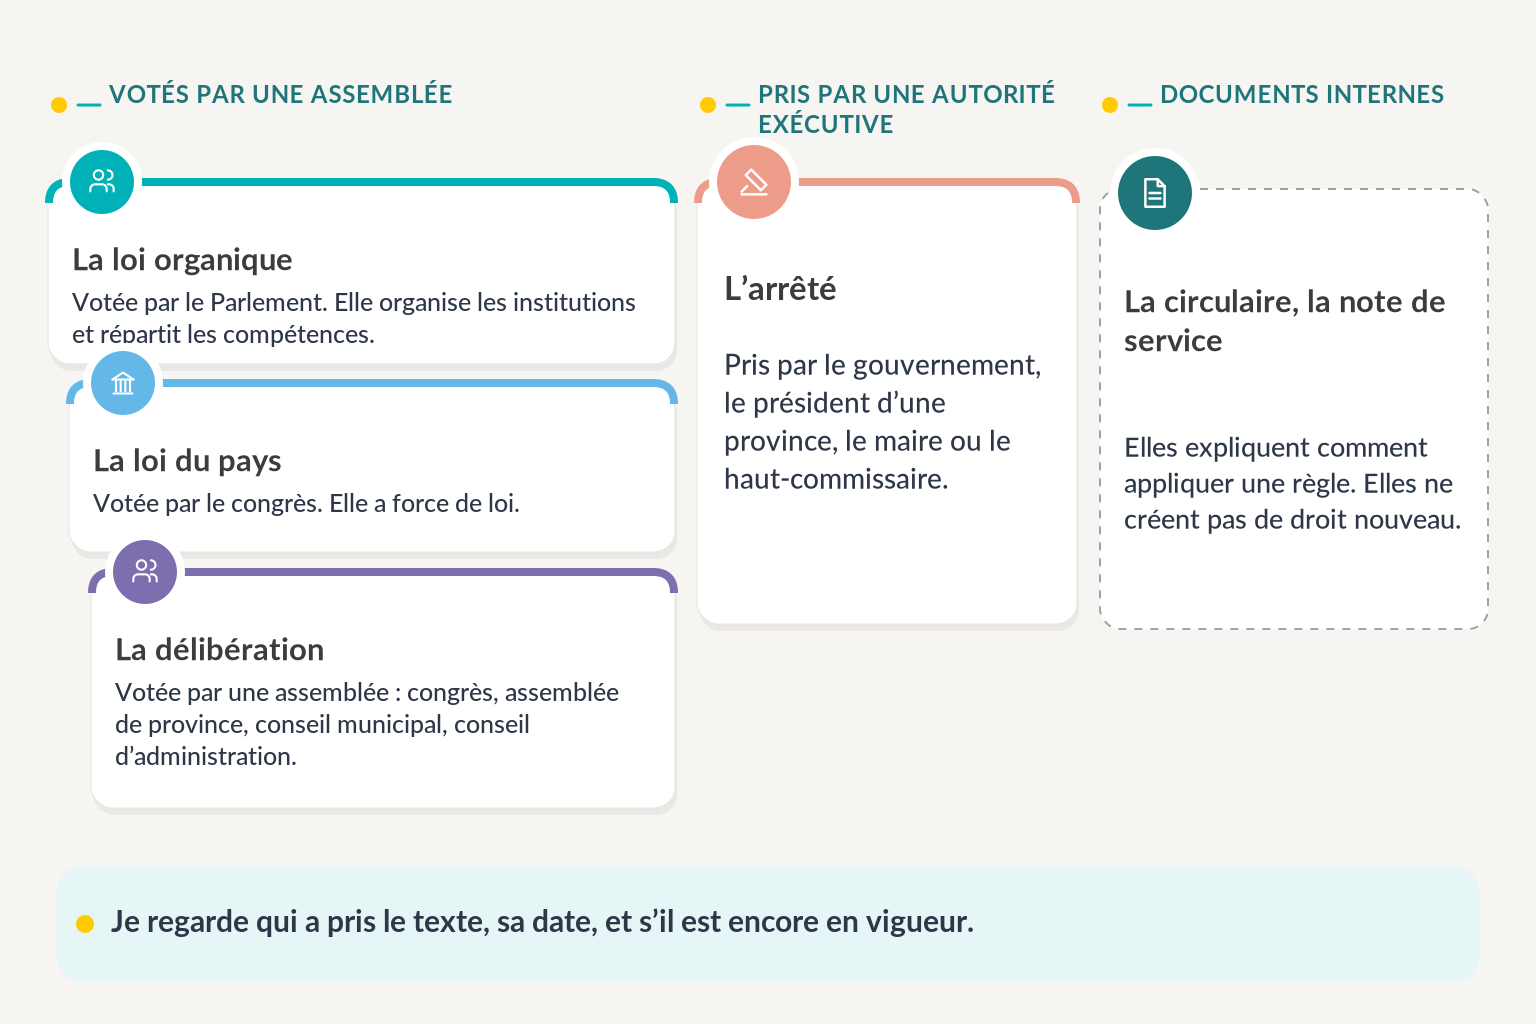
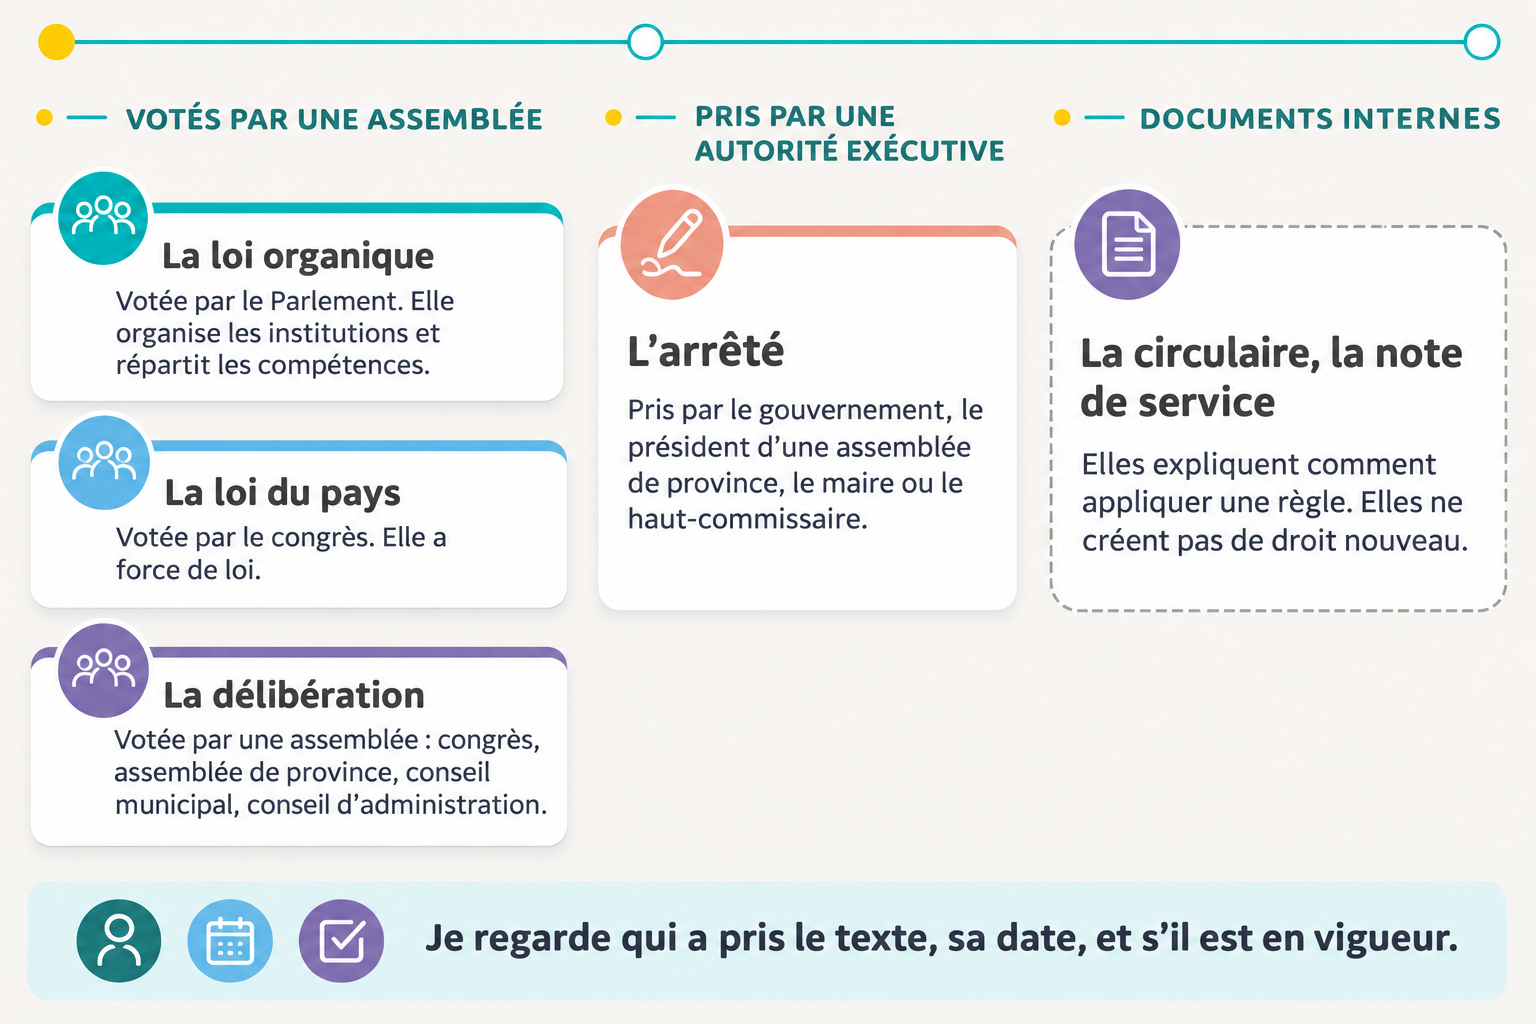
T10 : infographies INF-M1-01 à 04 dans M1 en pages, ILL-N09, « Aller plus loin » en image
Moteur : champ visuels d'un apport (image pleine largeur, zoom, repli sur le
bloc en code si l'image manque) et plus_loin.image. build.py : inventaire INF-*
et contrôle des infographies. M1 en pages v0.7 ; tests/rejouer.py : 24/24.

Claude-Session: https://claude.ai/code/session_0132ocV5q6wtdg1QakUSCwo7

diff --git a/data/m1-pages.js b/data/m1-pages.js
@@ -1,4 +1,4 @@
-/* GÉNÉRÉ par build/build.py depuis « Storyboard — M1 en pages v0.6.md » — ne pas modifier à la main. */
+/* GÉNÉRÉ par build/build.py depuis « v07.md » — ne pas modifier à la main. */
 window.DINA_DATA = {
  "module": {
   "id": "M1-PAGES",
@@ -382,7 +382,10 @@ window.DINA_DATA = {
      "guichet": "Le guichet n'est pas toujours la collectivité compétente. L'état civil relève de la Nouvelle-Calédonie, mais l'usager le demande à la mairie.",
      "plus_loin": {
       "titre": "Aller plus loin : quatre repères pour comprendre",
-      "texte": "**D'où vient cette répartition ?** Quatre dates suffisent pour s'y retrouver.\n\n- **1983 — Table ronde de Nainville-les-Roches.** Réunis par l'État près de Paris du 8 au 12 juillet, indépendantistes et non-indépendantistes discutent de l'avenir du territoire. La déclaration finale reconnaît le droit du peuple kanak, premier occupant, à l'indépendance, à exercer dans une autodétermination ouverte aux autres communautés dont il reconnaît la légitimité. Le RPCR ne la signe pas.\n- **1988-1989 — Accords de Matignon-Oudinot.** Création des trois provinces.\n- **1998-1999 — Accord de Nouméa.** Il organise le transfert progressif de compétences de l'État vers la Nouvelle-Calédonie. La loi organique du 19 mars 1999 fixe les listes : article 21 pour l'État, article 22 pour la Nouvelle-Calédonie, article 20 pour les provinces.\n- **Depuis 2000 — Les transferts de compétences.** Par exemple l'organisation de l'enseignement du second degré (2012), le droit civil et l'état civil (2013).\n\n**Le mot « pays ».** On parle souvent du « pays » pour la Nouvelle-Calédonie : ses lois s'appellent des lois du pays. Face à un usager, dites plutôt « la Nouvelle-Calédonie » ou « le gouvernement de la Nouvelle-Calédonie »."
+      "avant": "**D'où vient cette répartition ?** Quatre dates suffisent pour s'y retrouver.",
+      "image": "INF-M1-03",
+      "liste": "- **1983 — Table ronde de Nainville-les-Roches.** Réunis par l'État près de Paris du 8 au 12 juillet, indépendantistes et non-indépendantistes discutent de l'avenir du territoire. La déclaration finale reconnaît le droit du peuple kanak, premier occupant, à l'indépendance, à exercer dans une autodétermination ouverte aux autres communautés dont il reconnaît la légitimité. Le RPCR ne la signe pas.\n- **1988-1989 — Accords de Matignon-Oudinot.** Création des trois provinces.\n- **1998-1999 — Accord de Nouméa.** Il organise le transfert progressif de compétences de l'État vers la Nouvelle-Calédonie. La loi organique du 19 mars 1999 fixe les listes : article 21 pour l'État, article 22 pour la Nouvelle-Calédonie, article 20 pour les provinces.\n- **Depuis 2000 — Les transferts de compétences.** Par exemple l'organisation de l'enseignement du second degré (2012), le droit civil et l'état civil (2013).",
+      "texte": "**Le mot « pays ».** On parle souvent du « pays » pour la Nouvelle-Calédonie : ses lois s'appellent des lois du pays. Face à un usager, dites plutôt « la Nouvelle-Calédonie » ou « le gouvernement de la Nouvelle-Calédonie »."
      },
      "regle_clair": "Par défaut, c'est la province qui s'occupe d'un sujet. L'État, la Nouvelle-Calédonie et les communes ne s'en occupent que si un texte le leur confie. On dit que la province est compétente « de droit commun ».",
      "valider": "Repères historiques (D68, D89, D147) : rétablis le 12-11 (ils n'avaient pas été repris dans M1 en pages) ; Nainville-les-Roches ajouté à la demande de Marie-Ange Morvan, DRH de la province Sud. Sources : gouv.nc, communiqué des 40 ans de Nainville-les-Roches (12-07-2023) ; LARJE, Université de la Nouvelle-Calédonie. Formulation à valider par l'expert institutionnel. 14-11 : citation du gouvernement retirée (source non déposée) ; dates, contenu de la déclaration et position du RPCR à contrôler sur les sources."
@@ -812,6 +815,12 @@ window.DINA_DATA = {
       ],
       "ref": "Loi organique n° 99-209 du 19 mars 1999 ; code des communes de la Nouvelle-Calédonie"
      },
+     "visuels": [
+      {
+       "remplace": "grille",
+       "image": "INF-M1-01"
+      }
+     ],
      "methode_titre": "Avant de demander, trois questions",
      "methode": [
       "Est-ce que ça engage l'ÉLAN (signature, promesse, dépense) ? Si oui : mon responsable.",
@@ -1304,6 +1313,16 @@ window.DINA_DATA = {
       ],
       "ref": "Loi organique n° 99-209 du 19 mars 1999"
      },
+     "visuels": [
+      {
+       "remplace": "grille",
+       "image": "INF-M1-02"
+      },
+      {
+       "remplace": "methode",
+       "image": "INF-M1-04"
+      }
+     ],
      "methode_titre": "Avant d'utiliser une information, trois questions",
      "methode": [
       "Qui l'a produite ? Une source officielle, ou le service qui produit l'information.",
@@ -2491,7 +2510,27 @@ window.DINA_DATA = {
    "scene": "Bureau de Noa vu du dessus, quatre objets",
    "personnages": "—",
    "alt": "Bureau de Noa vu du dessus. Quatre objets représentent quatre sources d'information : une fiche de poste imprimée, un ordinateur ouvert sur l'intranet, une tablette ouverte sur un site officiel, un téléphone posé près d'un carnet."
+  },
+  "INF-M1-01": {
+   "scene": "Qui délibère, qui dirige, qui exécute ?",
+   "personnages": "—",
+   "alt": "Tableau à trois lignes et quatre colonnes. Pour la commune, la province, la Nouvelle-Calédonie et un établissement public : qui délibère, qui dirige, qui prépare et exécute. À retenir : je sais pour qui je travaille, qui décide, et à qui je rends compte."
+  },
+  "INF-M1-02": {
+   "scene": "Qui a pris ce texte ?",
+   "personnages": "—",
+   "alt": "Cinq types de textes rangés en trois familles. Votés par une assemblée : la loi organique (Parlement), la loi du pays (congrès), la délibération (une assemblée). Pris par une autorité exécutive : l'arrêté. Documents internes : la circulaire et la note de service, qui ne créent pas de droit nouveau. À retenir : je regarde qui a pris le texte, sa date, et s'il est en vigueur."
+  },
+  "INF-M1-03": {
+   "scene": "Quatre repères pour comprendre",
+   "personnages": "—",
+   "alt": "Frise chronologique en quatre étapes. 1983, table ronde de Nainville-les-Roches : indépendantistes et non-indépendantistes discutent de l'avenir du territoire. 1988-1989, accords de Matignon-Oudinot : création des trois provinces. 1998-1999, accord de Nouméa : la loi organique du 19 mars 1999 fixe les compétences de l'État, de la Nouvelle-Calédonie et des provinces. Depuis 2000, les transferts de compétences : par exemple l'organisation de l'enseignement du second degré en 2012, le droit civil et l'état civil en 2013."
+  },
+  "INF-M1-04": {
+   "scene": "Les trois vérifications",
+   "personnages": "—",
+   "alt": "Trois questions avant d'utiliser une information : qui l'a produite ? de quand date-t-elle ? est-elle en vigueur ? Selon les réponses : je l'utilise, je vérifie, ou je l'écarte."
   }
  },
- "source": "Storyboard — M1 en pages v0.6.md"
+ "source": "v07.md"
 };

diff --git a/js/engine.js b/js/engine.js
@@ -69,6 +69,21 @@
         else { img.hidden = true; img.parentNode.querySelector(".illu-vide").hidden = false; img.parentNode.classList.add("illu--vide"); }
       });
     });
+    /* T10 : infographie en image dans un apport ; si l'image manque, le bloc en code reprend sa place */
+    racine.querySelectorAll(".pg-info").forEach(function (blocInfo) {
+      var img = blocInfo.querySelector("img"), btn = blocInfo.querySelector(".pg-info-btn");
+      function vide() { blocInfo.classList.add("pg-info--vide"); }
+      if (img) {
+        img.addEventListener("error", vide);
+        if (img.complete && !img.naturalWidth) vide();
+      }
+      if (btn && !btn.dataset.branche) {
+        btn.dataset.branche = "1";
+        btn.addEventListener("click", function () {
+          ouvrirPanneau("Infographie", '<div class="info-zoom"><img src="' + esc(img.getAttribute("src")) + '" alt="' + esc(img.getAttribute("alt")) + '"></div>');
+        });
+      }
+    });
   }
   function role(nom) { return (M.personnages && M.personnages[nom]) ? '<span>' + esc(M.personnages[nom]) + "</span>" : ""; }
   function slug(nom) { return String(nom || "").split(" ")[0].toLowerCase().normalize("NFD").replace(/[\u0300-\u036f]/g, "").replace(/[^a-z0-9-]/g, ""); }
@@ -1871,6 +1886,17 @@
       if (b.et_vous) h += '<aside class="pg-vous"><strong>Et vous ?</strong> ' + inline(b.et_vous) + "</aside>";
       return h;
     }
+    /* T10 : un apport peut remplacer sa grille ou sa méthode par une infographie (champ visuels : remplace + image) */
+    function visuelHtml(code, corps) {
+      var info = D.illustrations[code] || {};
+      return '<div class="pg-info" data-code="' + esc(code) + '"><figure class="pg-info-fig"><button type="button" class="pg-info-btn" aria-label="Agrandir l\'infographie : ' + esc(info.scene || code) + '">' +
+        '<img src="assets/img/' + esc(code) + '.png" alt="' + esc(info.alt || "") + '"><span class="pg-info-loupe" aria-hidden="true">' + ic("i-loupe") + "Agrandir</span></button></figure>" +
+        '<div class="pg-info-texte">' + corps + "</div></div>";
+    }
+    function avecVisuel(b, quoi, corps) {
+      var v = (b.visuels || []).filter(function (x) { return x.remplace === quoi; })[0];
+      return v ? visuelHtml(v.image, corps) : corps;
+    }
     function blocApport(b) {
       var h = b.texte ? '<div class="texte">' + md(b.texte) + "</div>" : "";
       if (b.regle) h += '<p class="pg-regle">' + inline(b.regle) + (b.regle_ref ? '<span class="pg-ref">' + esc(b.regle_ref) + "</span>" : "") + "</p>" + enClair(b.regle_clair);
@@ -1886,12 +1912,17 @@
       }
       if (b.colonnes) h += colonnes(b.colonnes);
       if (b.points) h += (b.points_titre ? '<h3 class="pg-sous">' + esc(b.points_titre) + "</h3>" : "") + points(b.points);
-      if (b.grille) h += (b.grille.titre ? '<h3 class="pg-sous">' + esc(b.grille.titre) + "</h3>" : "") + grilleHtml(b.grille);
-      if (b.methode) h += '<h3 class="pg-sous">' + esc(b.methode_titre || "La méthode") + '</h3><ol class="pg-methode">' + b.methode.map(function (m) { return "<li>" + inline(m) + "</li>"; }).join("") + "</ol>";
+      if (b.grille) h += avecVisuel(b, "grille", (b.grille.titre ? '<h3 class="pg-sous">' + esc(b.grille.titre) + "</h3>" : "") + grilleHtml(b.grille));
+      if (b.methode) h += avecVisuel(b, "methode", '<h3 class="pg-sous">' + esc(b.methode_titre || "La méthode") + '</h3><ol class="pg-methode">' + b.methode.map(function (m) { return "<li>" + inline(m) + "</li>"; }).join("") + "</ol>");
       if (b.guichet) h += '<p class="pg-guichet">' + ic("i-mairie") + "<span>" + inline(b.guichet) + "</span></p>";
       if (b.encadre) h += '<p class="pg-encadre">' + inline(b.encadre) + "</p>";
       if (b.a_retenir) h += '<div class="a-retenir">' + ic("i-ampoule") + "<span><strong>À retenir</strong> — " + inline(b.a_retenir) + "</span></div>";
-      if (b.plus_loin) h += '<details class="pg-plus"><summary>' + esc(b.plus_loin.titre || "Aller plus loin") + "</summary>" + md(b.plus_loin.texte) + "</details>";
+      if (b.plus_loin) {
+        var pl = b.plus_loin;
+        /* T10 : « Aller plus loin » peut porter une infographie (image) à la place d'une liste (liste = repli) */
+        h += '<details class="pg-plus"><summary>' + esc(pl.titre || "Aller plus loin") + "</summary>" +
+          (pl.image ? md(pl.avant || "") + visuelHtml(pl.image, md(pl.liste || "")) + md(pl.texte || "") : md((pl.avant ? pl.avant + "\n\n" : "") + (pl.liste ? pl.liste + "\n\n" : "") + (pl.texte || ""))) + "</details>";
+      }
       if (b.sources) h += '<p class="sources"><strong>Sources :</strong> ' + esc(b.sources) + "</p>";
       return h;
     }

diff --git a/css/page.css b/css/page.css
@@ -32,6 +32,20 @@
   .pg-et:not(.pg-et--encours) .pg-et-lib { position: absolute; width: 1px; height: 1px; overflow: hidden; clip: rect(0 0 0 0); white-space: nowrap; }
 }
 
+/* T10 : infographie en image dans un apport (remplace la grille ou la méthode ; repli sur le bloc en code si l'image manque) */
+.pg-info { margin: 0 0 1rem; }
+.pg-info-fig { margin: 0; }
+.pg-info-btn { display: block; text-align: left; width: 100%; padding: 0; border: 1px solid var(--bordure); border-radius: var(--rayon); background: #fff; overflow: hidden; cursor: zoom-in; font: inherit; }
+.pg-info-btn img { display: block; width: 100%; height: auto; }
+.pg-info-loupe { display: flex; align-items: center; justify-content: flex-end; gap: .35rem; padding: .45rem .8rem; border-top: 1px solid var(--bordure); background: #fff; color: #1F767A; font-size: .9rem; font-weight: 700; }
+.pg-info-loupe svg { width: 1em; height: 1em; }
+.pg-info-btn:focus-visible { outline: none; box-shadow: var(--focus); }
+.pg-info:not(.pg-info--vide) .pg-info-texte { display: none; }
+.pg-info--vide .pg-info-fig { display: none; }
+.info-zoom { overflow: auto; max-height: 75vh; -webkit-overflow-scrolling: touch; }
+.info-zoom img { display: block; width: max(100%, 46rem); max-width: none; height: auto; }
+.panneau:has(.info-zoom) { width: min(64rem, 96%); }
+
 /* Blocs */
 .pg-bloc { padding: 1.75rem 0 .5rem; border-top: 1px solid var(--bordure); scroll-margin-top: 3.5rem; }
 .pg-bloc:first-of-type { border-top: 0; }
